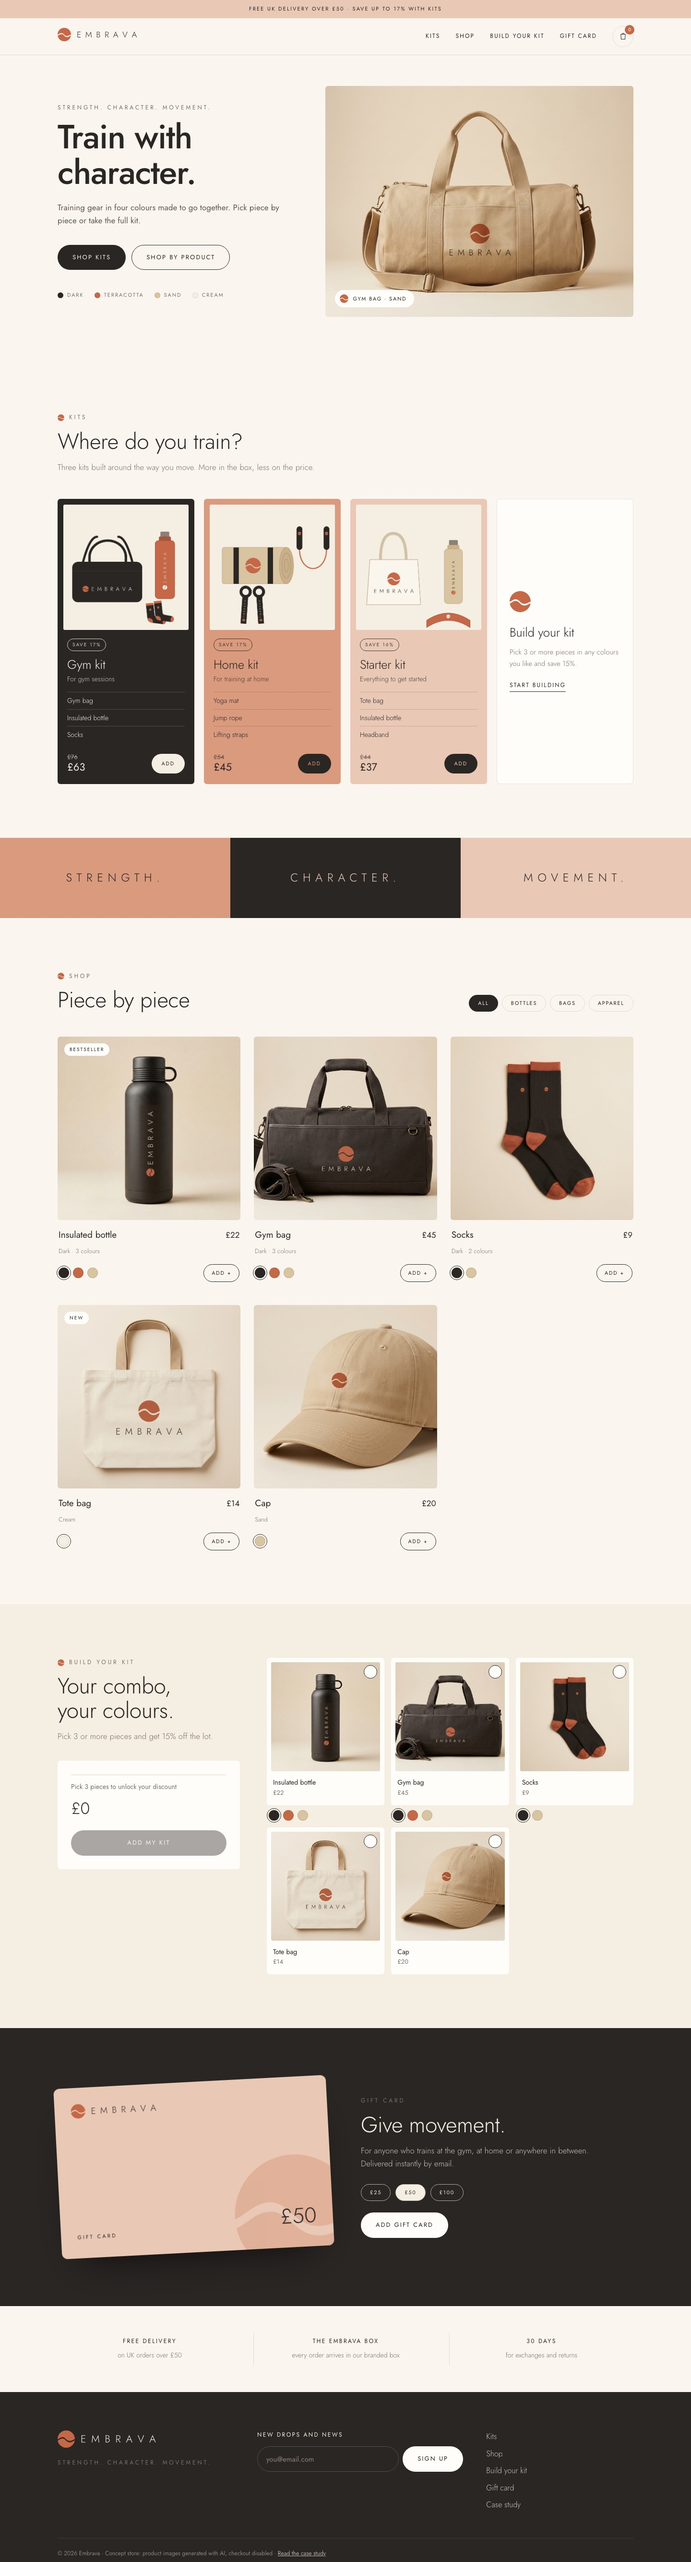
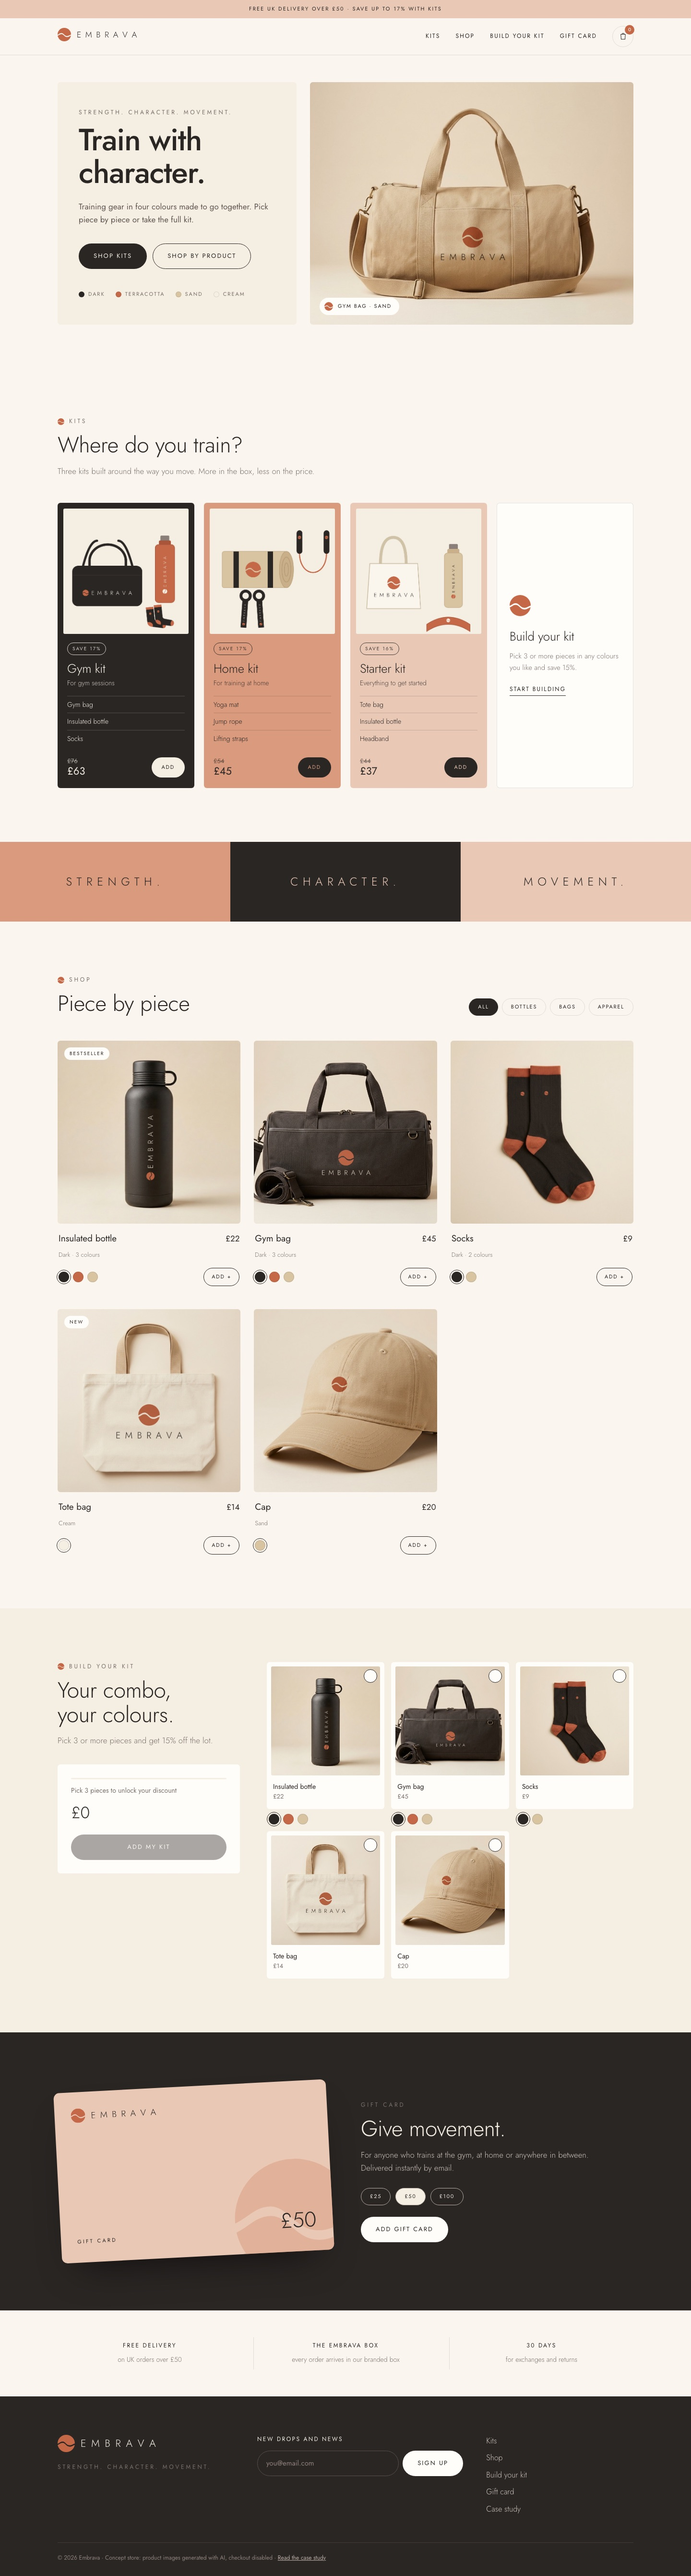
Actualiza las capturas de Embrava con el texto de la cabecera en bloque

diff --git a/work/embrava.html b/work/embrava.html
@@ -67,7 +67,7 @@
           <div class="browser-url">andrea-mmo.github.io/embrava</div>
         </div>
         <div class="browser-view" tabindex="0" aria-label="Scrollable preview of the Embrava store on desktop">
-          <img src="../images/embrava-long.jpg" alt="Desktop view of the Embrava homepage: hero, kits, brand band, product grid, build your kit, gift card and footer" width="1440" height="5336">
+          <img src="../images/embrava-long.jpg" alt="Desktop view of the Embrava homepage: hero, kits, brand band, product grid, build your kit, gift card and footer" width="1440" height="5364">
         </div>
         <figcaption>Desktop. Scroll inside the frame to see the full homepage.</figcaption>
       </figure>
